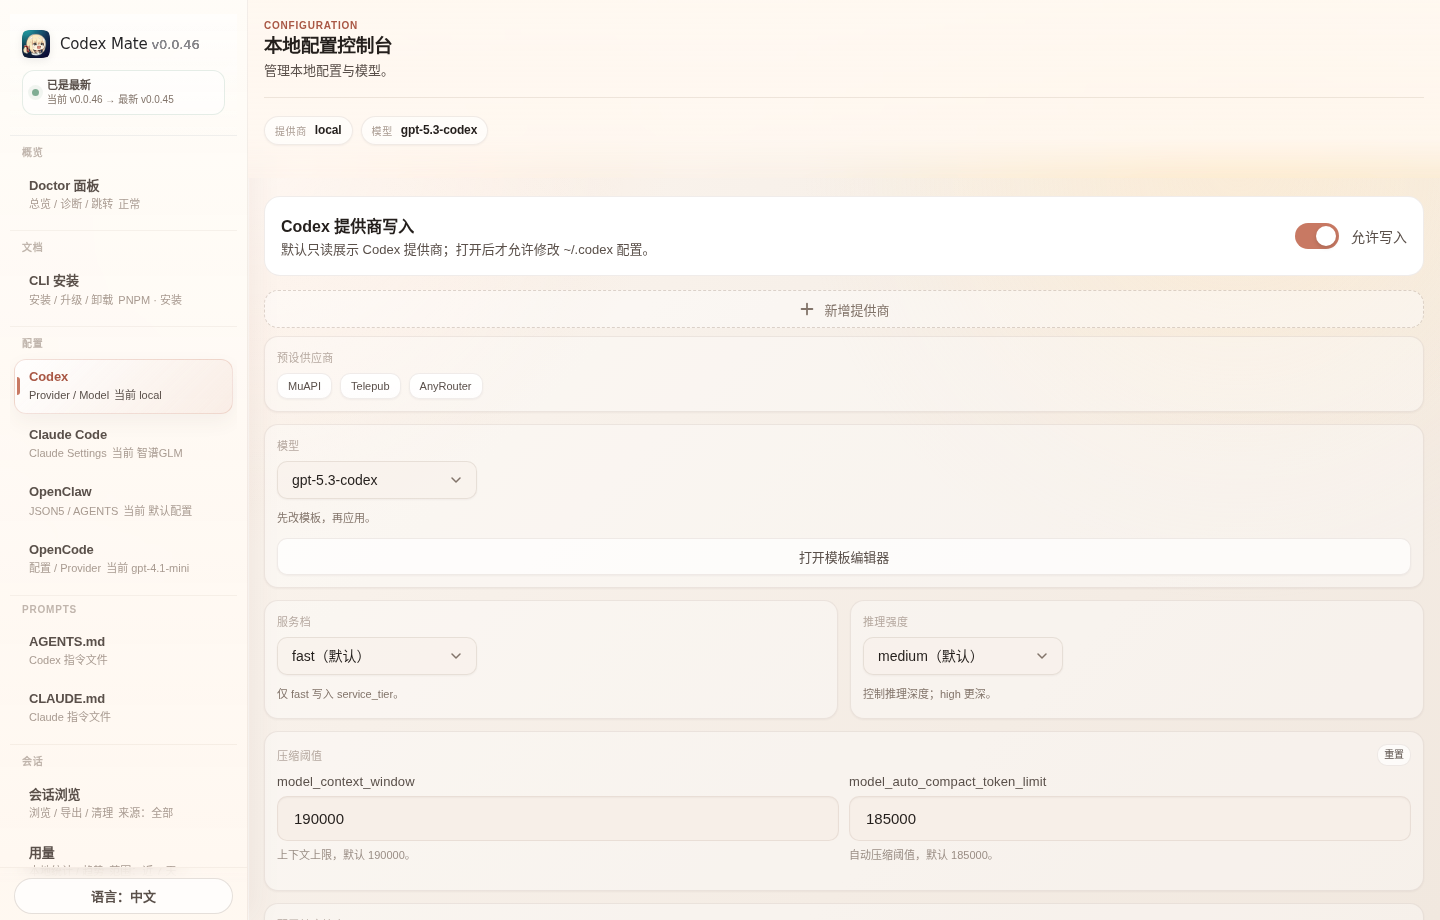
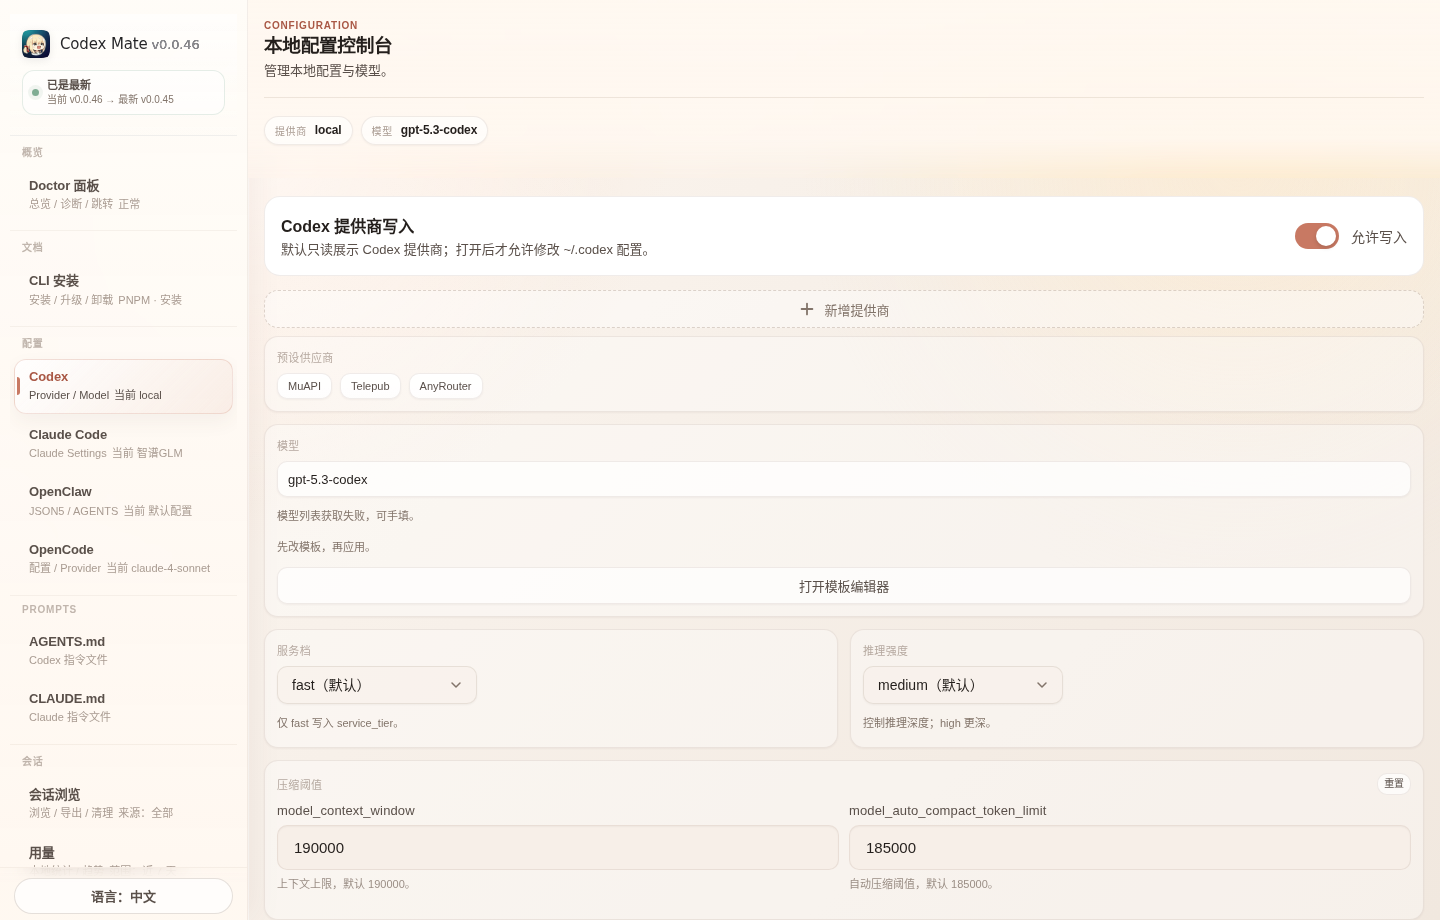
docs(readme): refresh Chinese screenshots

diff --git a/web-ui/styles/controls-forms.css b/web-ui/styles/controls-forms.css
@@ -413,6 +413,13 @@
     margin-top: var(--spacing-xs);
 }
 
+.selector-section .opencode-provider-actions > .btn-tool + .btn-tool,
+.selector-section .opencode-provider-actions > .btn-tool-compact + .btn-tool,
+.selector-section .opencode-provider-actions > .btn-tool + .btn-tool-compact,
+.selector-section .opencode-provider-actions > .btn-tool-compact + .btn-tool-compact {
+    margin-top: 0;
+}
+
 .selector-header .settings-tab-actions > .btn-tool + .btn-tool,
 .selector-header .settings-tab-actions > .btn-tool-compact + .btn-tool,
 .selector-header .settings-tab-actions > .btn-tool + .btn-tool-compact,
